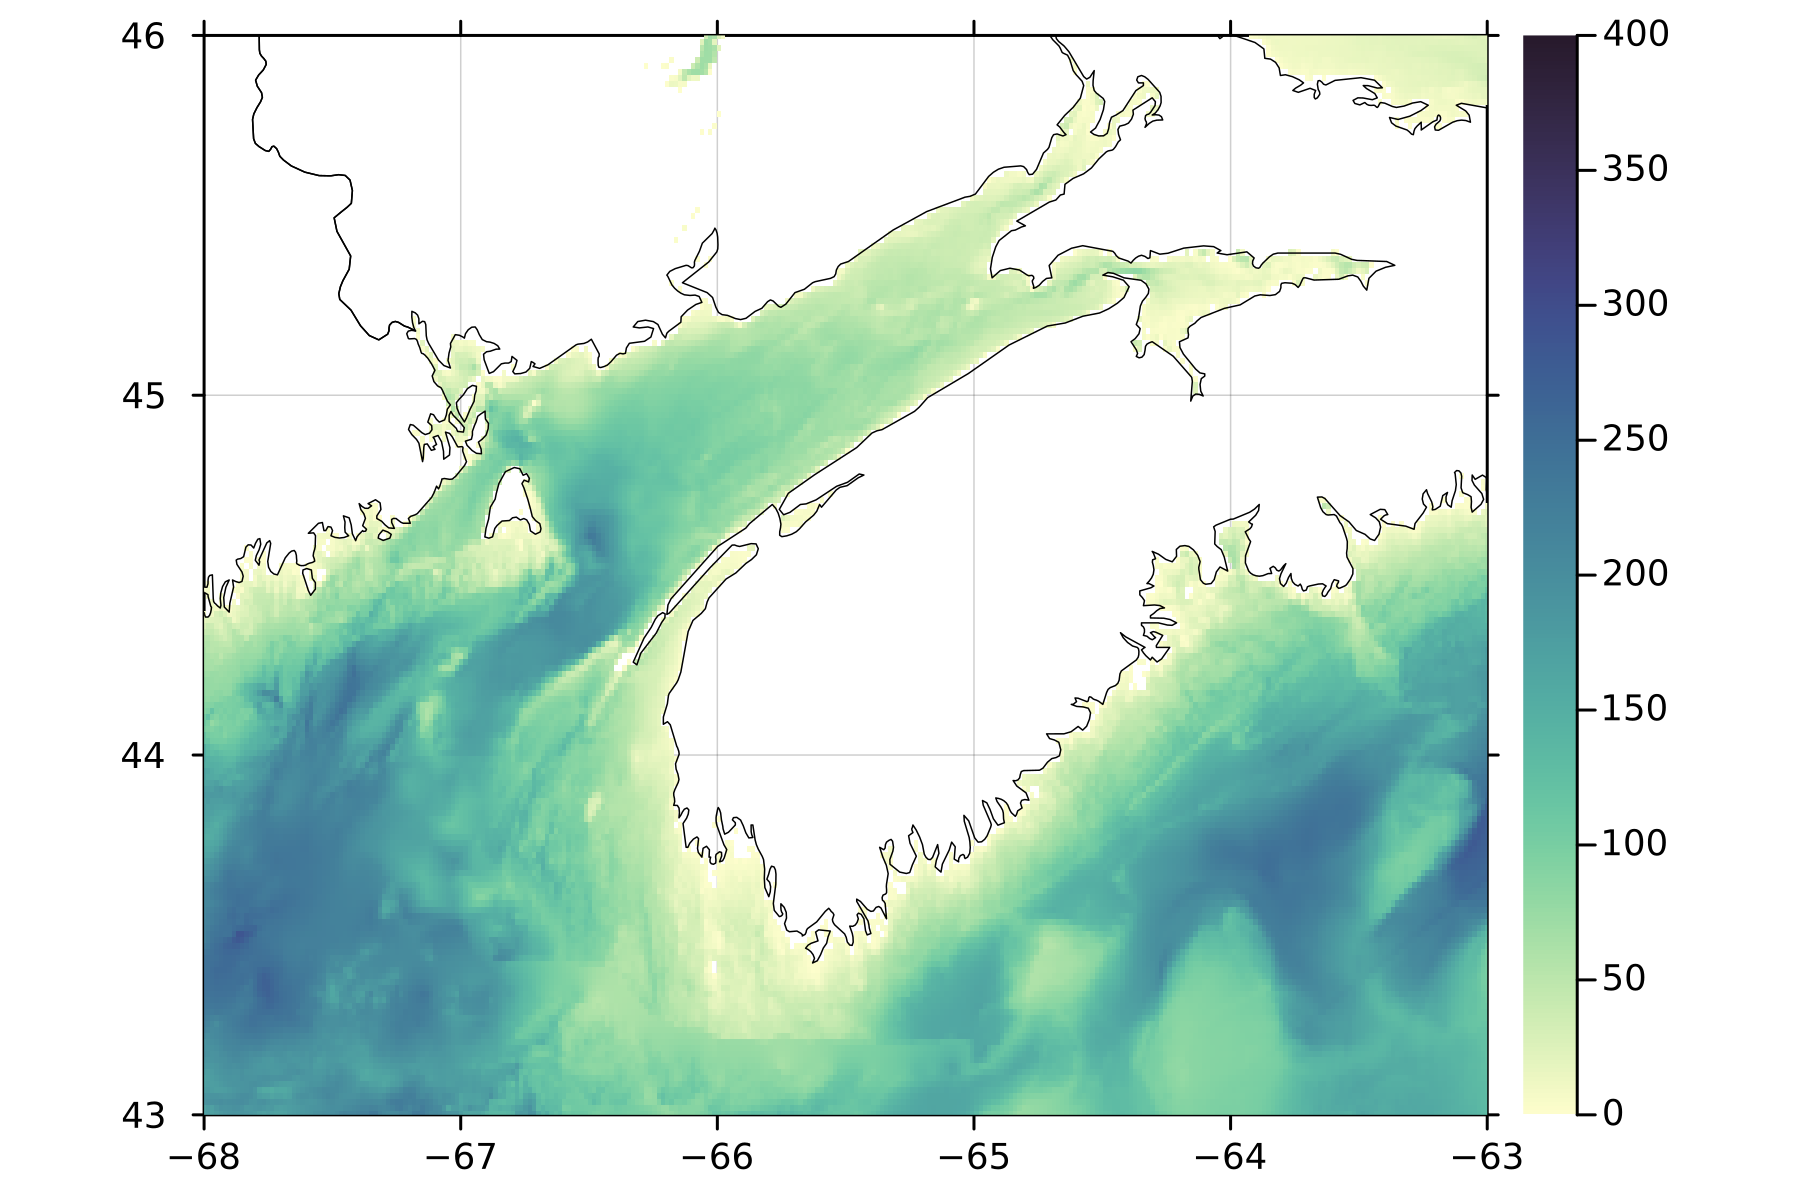
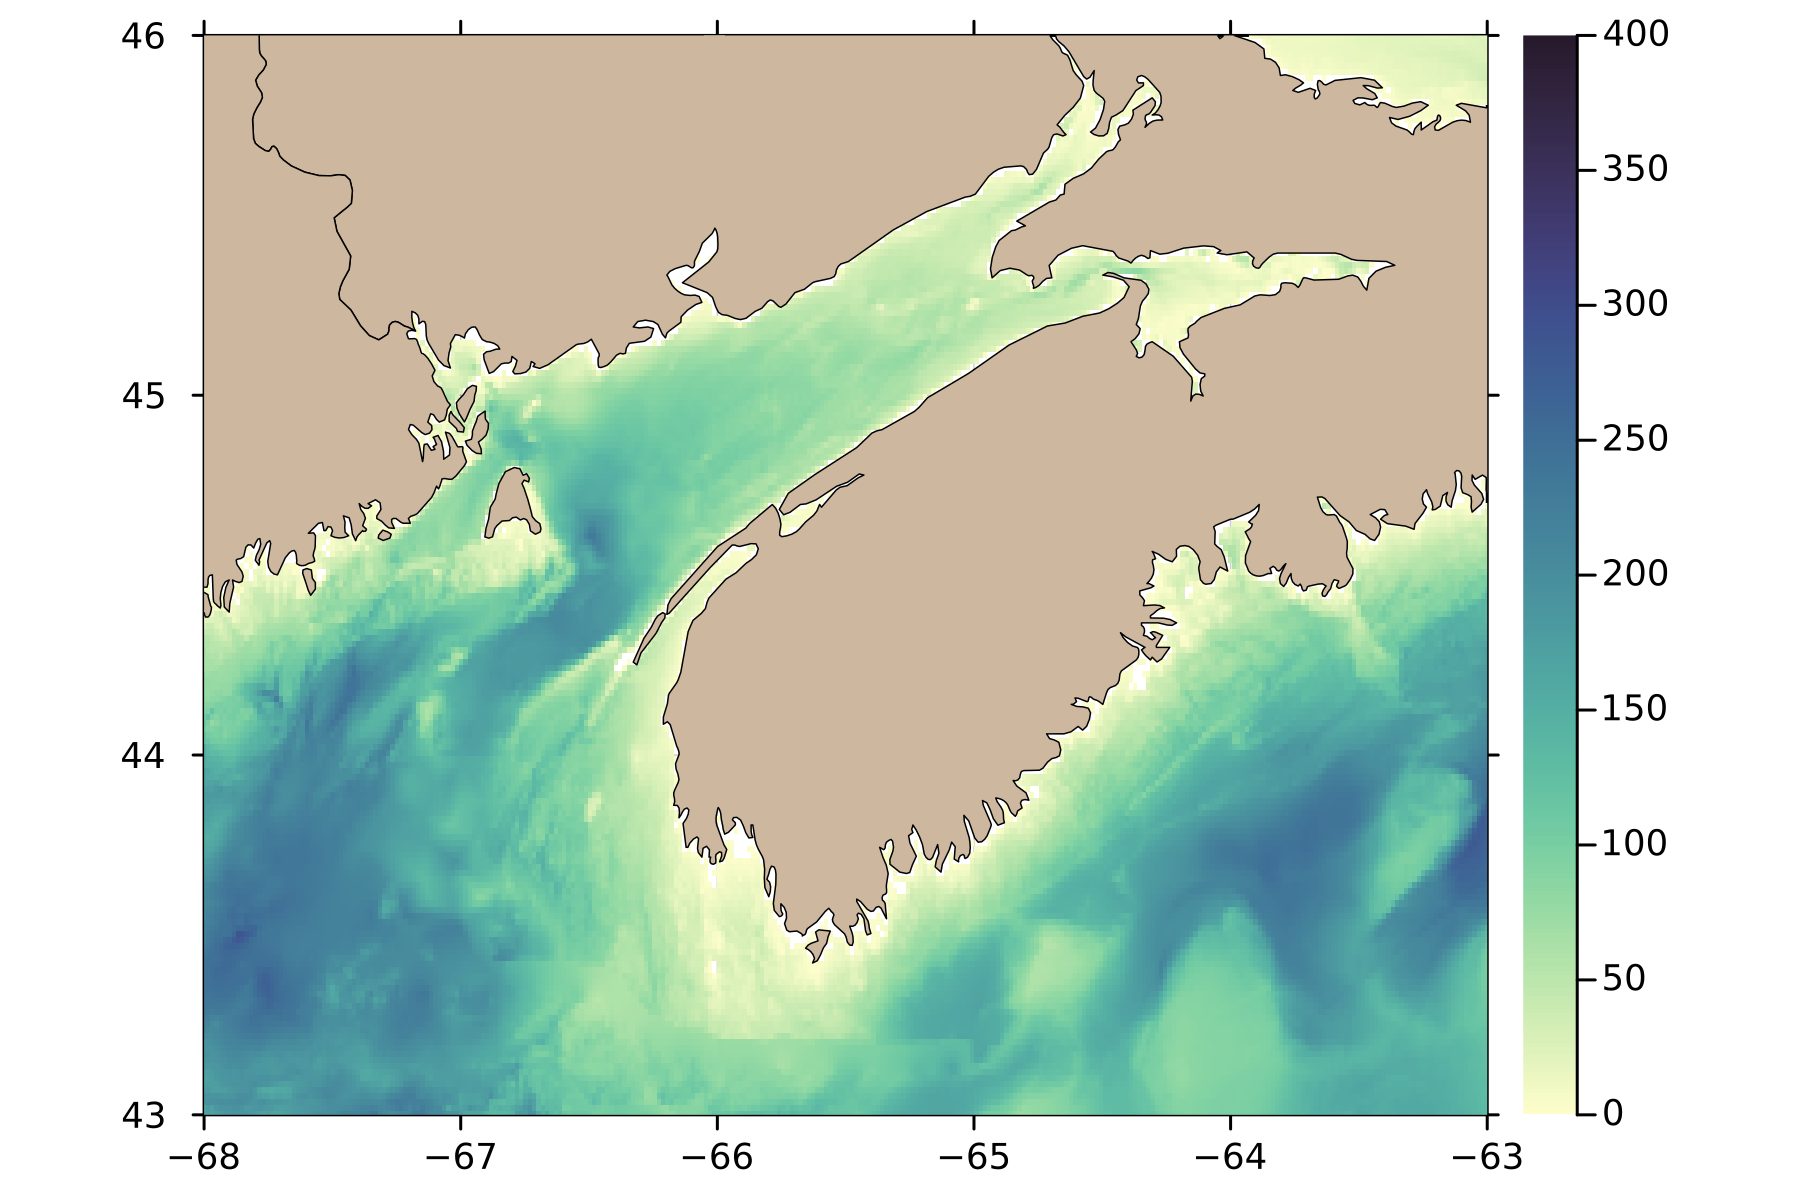
Improve docs (esp example diagrams)

Changed region(s): [[0.0933, 0.0308, 0.84, 0.8017]]

diff --git a/docs/src/examples.md b/docs/src/examples.md
@@ -1,49 +1,34 @@
 # Examples
 
-## AMSR satellites
+## Satellite view of SST
 
-These store several data streams, including sea-surface temperature, which may
-be plotted as follows.
+The AMSR satellite provides several data streams, including sea-surface
+temperature, which may be plotted as follows.
+
 
 ```julia
+# North Atlantic Sea Surface Temperature
 using OceanAnalysis, Plots
 f = "~/data/amsr/RSS_AMSR2_ocean_L3_3day_2025-09-07_v08.2.nc"
 d = read_amsr(f, "SST");
 longitude = d.metadata["longitude"];
 latitude = d.metadata["latitude"];
-SST = d.data
-heatmap(longitude, latitude, SST, framestyle=:box, aspect_ratio=:equal,
-    xlims=(0, 360), ylims=(-90, 90), dpi=300, size=(800, 400),
-    tickdirection=:out, title=f * ": SST", titlefontsize=9)
-cl = coastline(:global_fine)
-plot!(cl.data.longitude, cl.data.latitude,
-    seriestype=:shape, color=:lightgray, legend=false)
+SST = d.data;
+heatmap(longitude, latitude, SST, framestyle=:box,
+    xlims=(290.0, 360.0), ylims=(20.0, 60.0),
+    aspect_ratio=1.0 / cos(pi * 40.0 / 180.0),
+    color=:turbo, size=(800, 550), dpi=300,
+    title=f * ": SST", titlefontsize=9,
+    clim=(0, 30))
+cl = coastline(:global_fine);
 plot!(cl.data.longitude .+ 360, cl.data.latitude,
-    seriestype=:shape, color=:lightgray, legend=false)
+    seriestype=:shape, color=:bisque3, linewidth=0.8,
+    legend=false)
+contour!(longitude, latitude, SST, levels=0.0:2.5:40.0, color=:black)
 #savefig("amsr.png")
 ```
 
 ![AMSR-derived sea-surface temperature](amsr.png)
-
-## Coastlines
-
-The following shows how to plot a whole-earth view, for which the coarse-scale
-built-in coastline dataset is suitable, along with a Nova Scotia view, for
-which the fine-scale dataset is preferable.
-
-```julia
-# Plot world coastline earth with the coarse dataset and Nova Scotia with the fine dataset
-using OceanAnalysis, Plots
-# Left: world view
-p1 = plot_coastline(coastline(:global_coarse))
-# Right: Nova Scotia view
-p2 = plot_coastline(coastline(:global_fine), xlims=(-68, -59), ylims=(42, 48))
-l = @layout [a{0.6w} b{0.4w}]
-plot(p1, p2, layout=l)
-#savefig("maps.png")
-```
-
-![maps](maps.png)
 
 ## Topography
 
@@ -53,18 +38,20 @@ and plots an image of water depth.
 ```julia
 # Bay of Fundy at approximately 1.6km resolution
 using OceanAnalysis, Plots, TiffImages
-topo_file = get_topography_file(-68, -63, 43, 46, resolution=1, debug=1)
+topo_file = get_topography_file(-68, -63, 43, 46, resolution=1)
 topo = read_topography(topo_file);
+lon = topo.metadata["longitude"]
+lat = topo.metadata["latitude"]
 water_depth = -topo.data; # depth is the negative of height
-water_depth[water_depth .< 0.0] .= NaN; # trim land
-heatmap(topo.metadata["longitude"], topo.metadata["latitude"], water_depth,
-        aspect_ratio=1.0/cos(44.5*pi/180.),
-        framestyle=:box, dpi=300,
-        xlims=extrema(topo.metadata["longitude"]),
-        ylims=extrema(topo.metadata["latitude"]),
-        tickdirection=:out, color=:deep, clim=(0, 400))
+water_depth[water_depth.<0.0] .= NaN; # trim land
+heatmap(lon, lat, water_depth,
+    xlims=extrema(lon), ylims=extrema(lat),
+    aspect_ratio=1.0 / cos(0.5 * (lat[1] + lat[end]) * pi / 180.),
+    framestyle=:box, dpi=300,
+    tickdirection=:out, color=:deep, clim=(0, 400))
 cl = coastline();
-plot!(cl.data.longitude, cl.data.latitude, color=:black, legend=false, linewidth=0.5)
+plot!(cl.data.longitude, cl.data.latitude,
+    seriestype=:shape, color=:bisque3, legend=false, linewidth=0.5)
 #savefig("topography.png")
 ```
 
